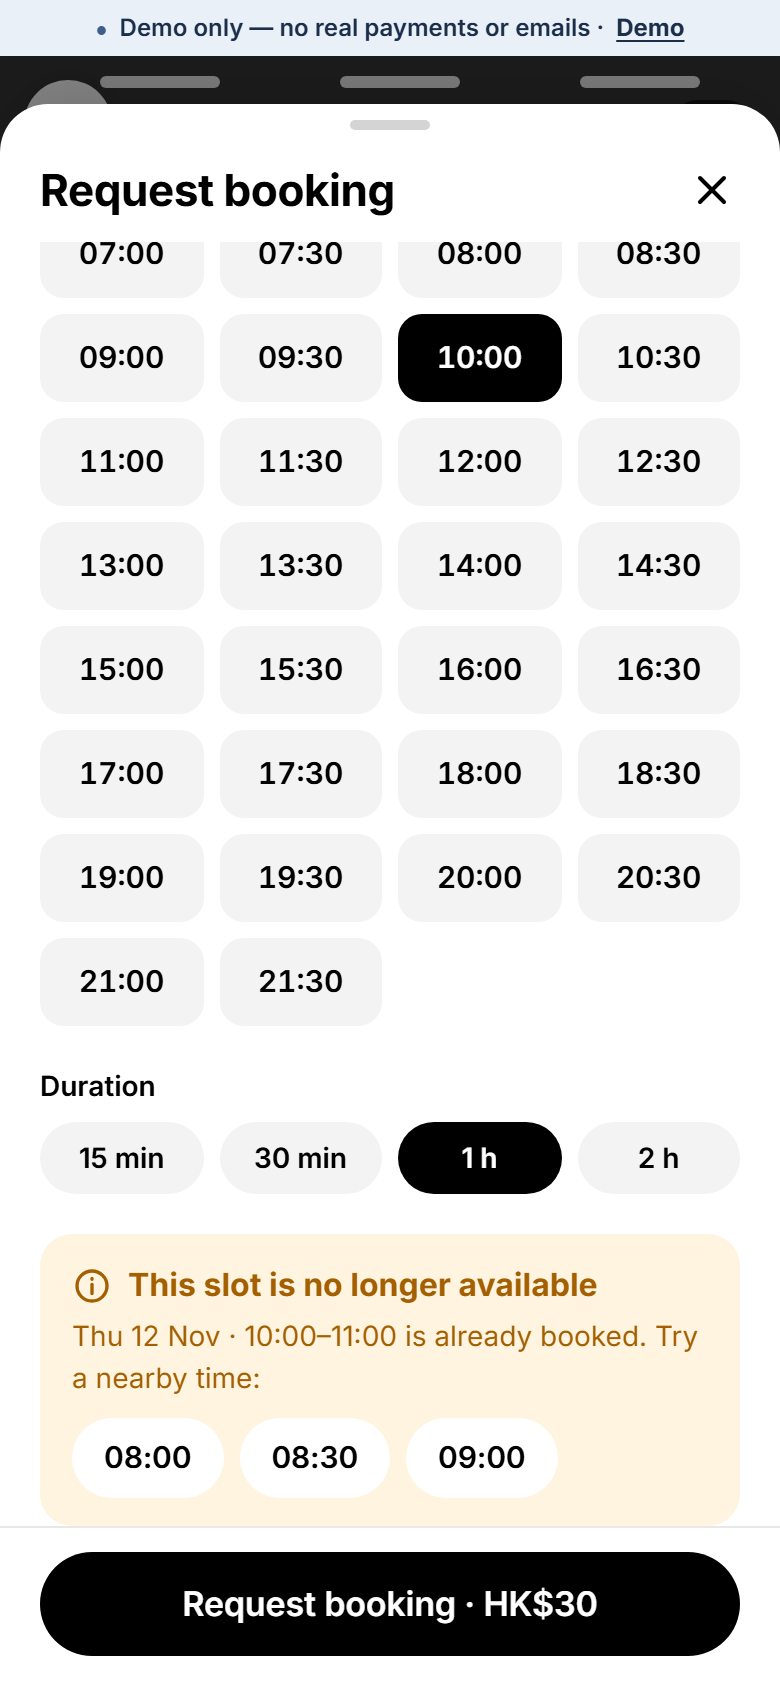
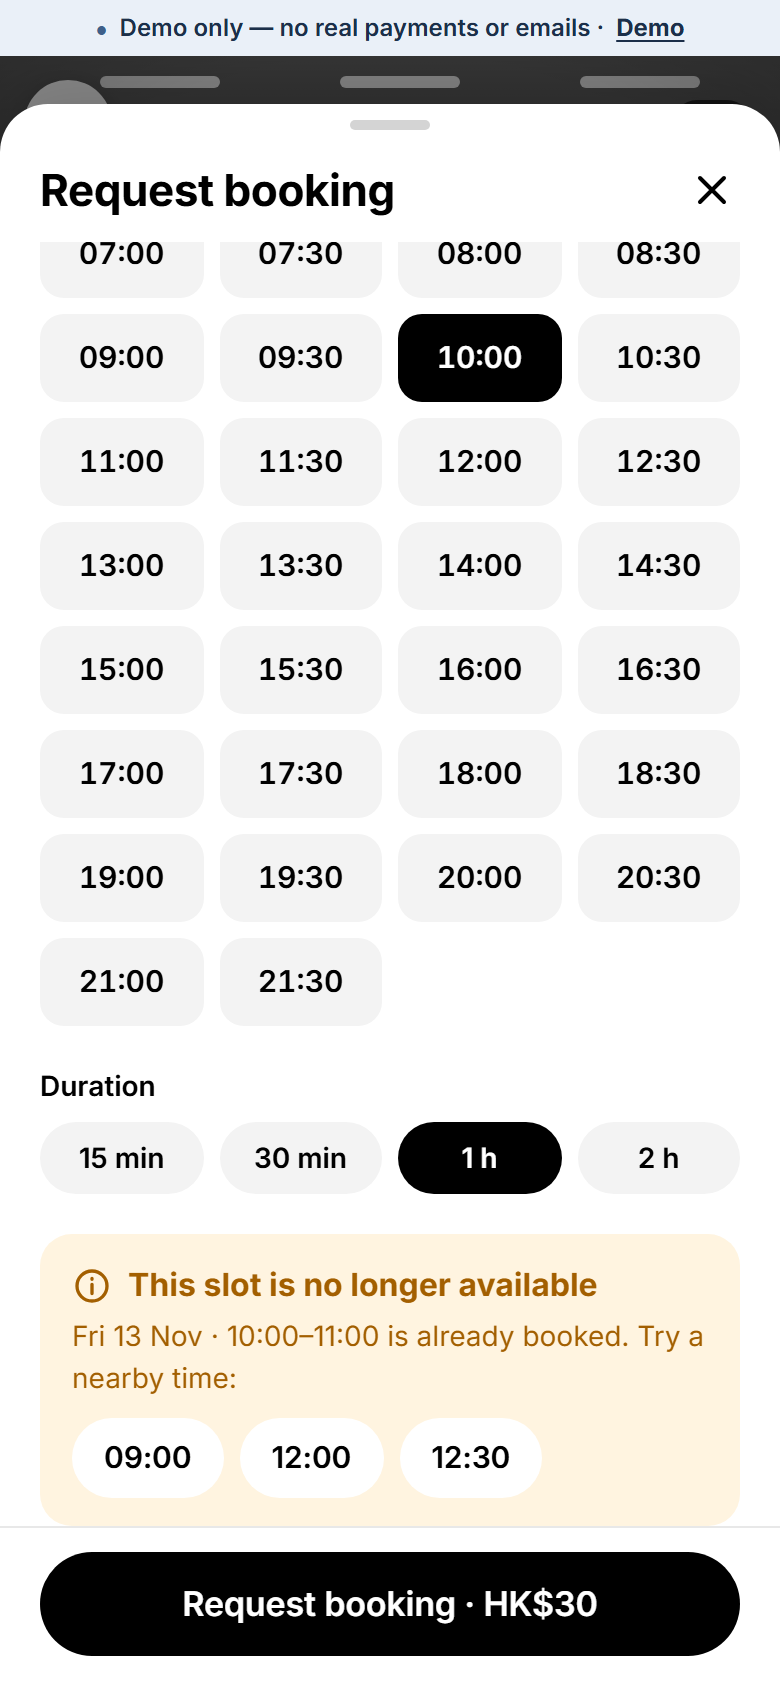
RF-7: slot suggestions = nearest earlier + two nearest later + checks

diff --git a/src/lib/booking.ts b/src/lib/booking.ts
@@ -64,7 +64,11 @@ export function startTimesForDay(spot: Pick<Spot, 'availability'>, day: Date, mi
   return out
 }
 
-/** The `n` free start times that day closest to `start` (30-minute steps), in time order. */
+/**
+ * Up to `n` free start times that day around `start` (30-minute steps), in time order:
+ * the nearest earlier one and the nearest later ones (n = 3 → 1 earlier + 2 later).
+ * If one side runs short, the other side fills the gap.
+ */
 export function freeSlotsNear(
   spot: Pick<Spot, 'id' | 'availability'>,
   start: Date,
@@ -73,11 +77,14 @@ export function freeSlotsNear(
   n = 3,
   now: Date = new Date(),
 ): Date[] {
-  return startTimesForDay(spot, start, minutes)
-    .filter((t) => t.getTime() !== start.getTime() && checkSlot(spot, t, minutes, bookings, now) === 'ok')
-    .sort((a, b) => Math.abs(a.getTime() - start.getTime()) - Math.abs(b.getTime() - start.getTime()))
-    .slice(0, n)
-    .sort((a, b) => a.getTime() - b.getTime())
+  const free = startTimesForDay(spot, start, minutes).filter((t) => t.getTime() !== start.getTime() && checkSlot(spot, t, minutes, bookings, now) === 'ok')
+  const earlier = free.filter((t) => t.getTime() < start.getTime()).reverse() // nearest first
+  const later = free.filter((t) => t.getTime() > start.getTime())
+  const wantEarlier = Math.min(earlier.length, n > 1 ? 1 : 0)
+  const picked = [...earlier.slice(0, wantEarlier), ...later.slice(0, n - wantEarlier)]
+  // Later side ran short → take more earlier ones.
+  if (picked.length < n) picked.push(...earlier.slice(wantEarlier, wantEarlier + n - picked.length))
+  return picked.sort((a, b) => a.getTime() - b.getTime())
 }
 
 export const endOf = (b: Pick<Booking, 'start' | 'durationMinutes'>) => addMin(new Date(b.start), b.durationMinutes)
